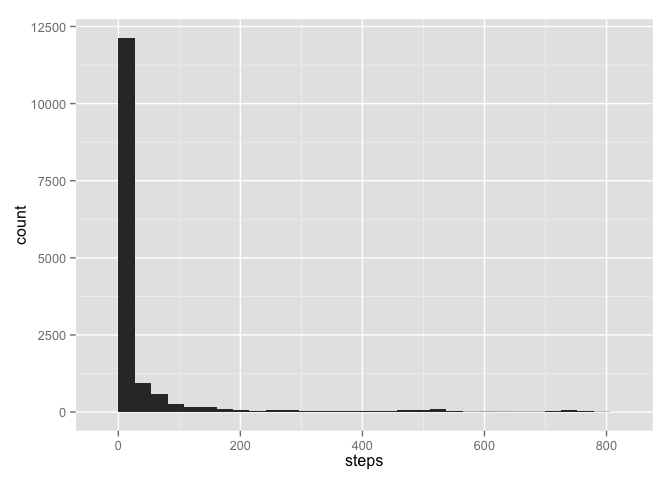
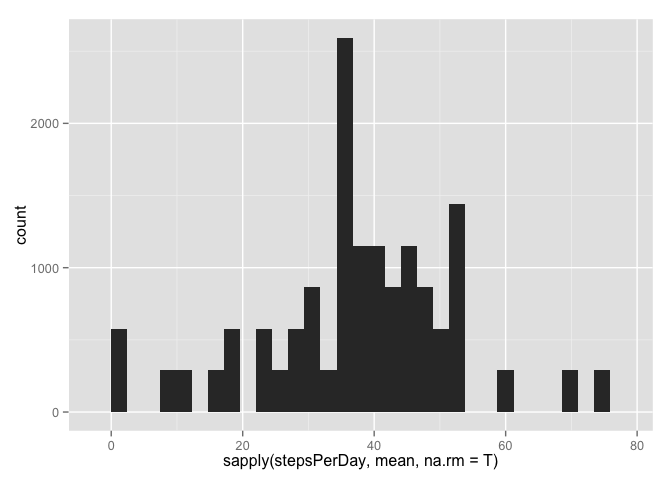
plot mean steps per day in hist

diff --git a/PA1_template.html b/PA1_template.html
@@ -83,15 +83,18 @@ str(healthData)</code></pre>
 <li>get the total number of steps taken per day</li>
 </ul>
 <pre class="r"><code>stepsPerDay &lt;- split(healthData$steps, healthData$date)
-#str(stepsPerDay)</code></pre>
+#head(stepsPerDay)</code></pre>
 <ul>
 <li>First I’ll help visualize the total number of steps taken each day, using a histogram.</li>
 </ul>
 <pre class="r"><code>library(ggplot2)
-h &lt;- ggplot(healthData, aes(x= steps))
+h &lt;- ggplot(healthData, aes(x= sapply(stepsPerDay, mean, na.rm = T)))
 h + geom_histogram()</code></pre>
+<pre><code>## Warning in data.frame(x = structure(c(NaN, 0.4375, 39.4166666666667,
+## 42.0694444444444, : row names were found from a short variable and have
+## been discarded</code></pre>
 <pre><code>## stat_bin: binwidth defaulted to range/30. Use 'binwidth = x' to adjust this.</code></pre>
[2 lines of base64/hex data omitted]
 </div>
 <div id="what-is-the-average-daily-activity-pattern" class="section level2">
 <h2>What is the average daily activity pattern?</h2>

diff --git a/PA1_template.md b/PA1_template.md
@@ -27,7 +27,7 @@ str(healthData)
 
 ```r
 stepsPerDay <- split(healthData$steps, healthData$date)
-#str(stepsPerDay)
+#head(stepsPerDay)
 ```
 
 * First I'll help visualize the total number of steps taken each day, using a histogram.
@@ -35,8 +35,14 @@ stepsPerDay <- split(healthData$steps, healthData$date)
 
 ```r
 library(ggplot2)
-h <- ggplot(healthData, aes(x= steps))
+h <- ggplot(healthData, aes(x= sapply(stepsPerDay, mean, na.rm = T)))
 h + geom_histogram()
+```
+
+```
+## Warning in data.frame(x = structure(c(NaN, 0.4375, 39.4166666666667,
+## 42.0694444444444, : row names were found from a short variable and have
+## been discarded
 ```
 
 ```
